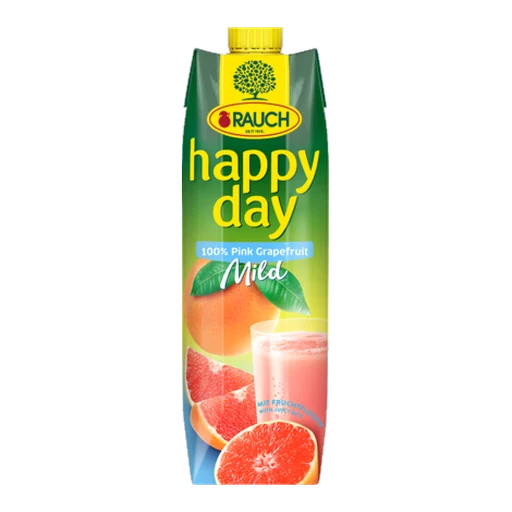
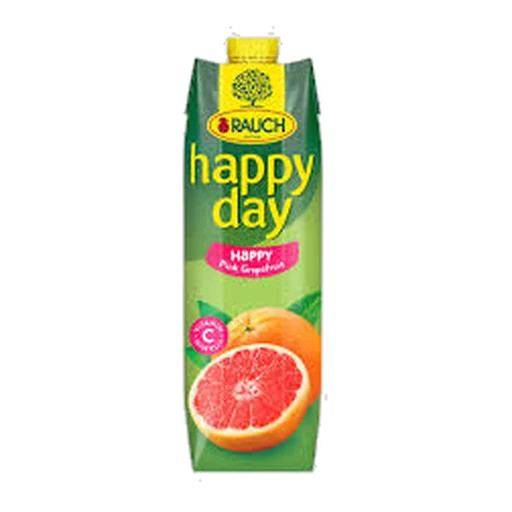
Фото от Миши: Pigi, Zen Chai, MacCoffee стик, Happy Day
MacCoffee заменён с коробки на стик — как на полке. Happy Day взят
присланный: он мельче найденного, но вкус тот, а на найденном был Mild.

Changed region(s): [[0.3438, 0.0312, 0.6562, 0.9688]]

diff --git a/index.html b/index.html
@@ -9,7 +9,7 @@
 <link rel="preconnect" href="https://fonts.googleapis.com">
 <link rel="preconnect" href="https://fonts.gstatic.com" crossorigin>
 <link rel="stylesheet" href="https://fonts.googleapis.com/css2?family=Onest:wght@400;500;600;700&family=Unbounded:wght@600;700&display=swap">
-<link rel="stylesheet" href="app.css?v=6275705-100500">
+<link rel="stylesheet" href="app.css?v=182afb6-101011">
 <script src="https://telegram.org/js/telegram-web-app.js"></script>
 </head>
 <body>
@@ -42,8 +42,8 @@
     <svg viewBox="0 0 24 24" fill="none" stroke="currentColor" stroke-width="1.9" stroke-linecap="round" stroke-linejoin="round"><circle cx="12" cy="12" r="8.5"/><path d="M12 7.5V12l3 2"/></svg>История</button>
 </div></nav>
 
-<script src="config.js?v=6275705-100500"></script>
-<script src="api.js?v=6275705-100500"></script>
-<script src="app.js?v=6275705-100500"></script>
+<script src="config.js?v=182afb6-101011"></script>
+<script src="api.js?v=182afb6-101011"></script>
+<script src="app.js?v=182afb6-101011"></script>
 </body>
 </html>
